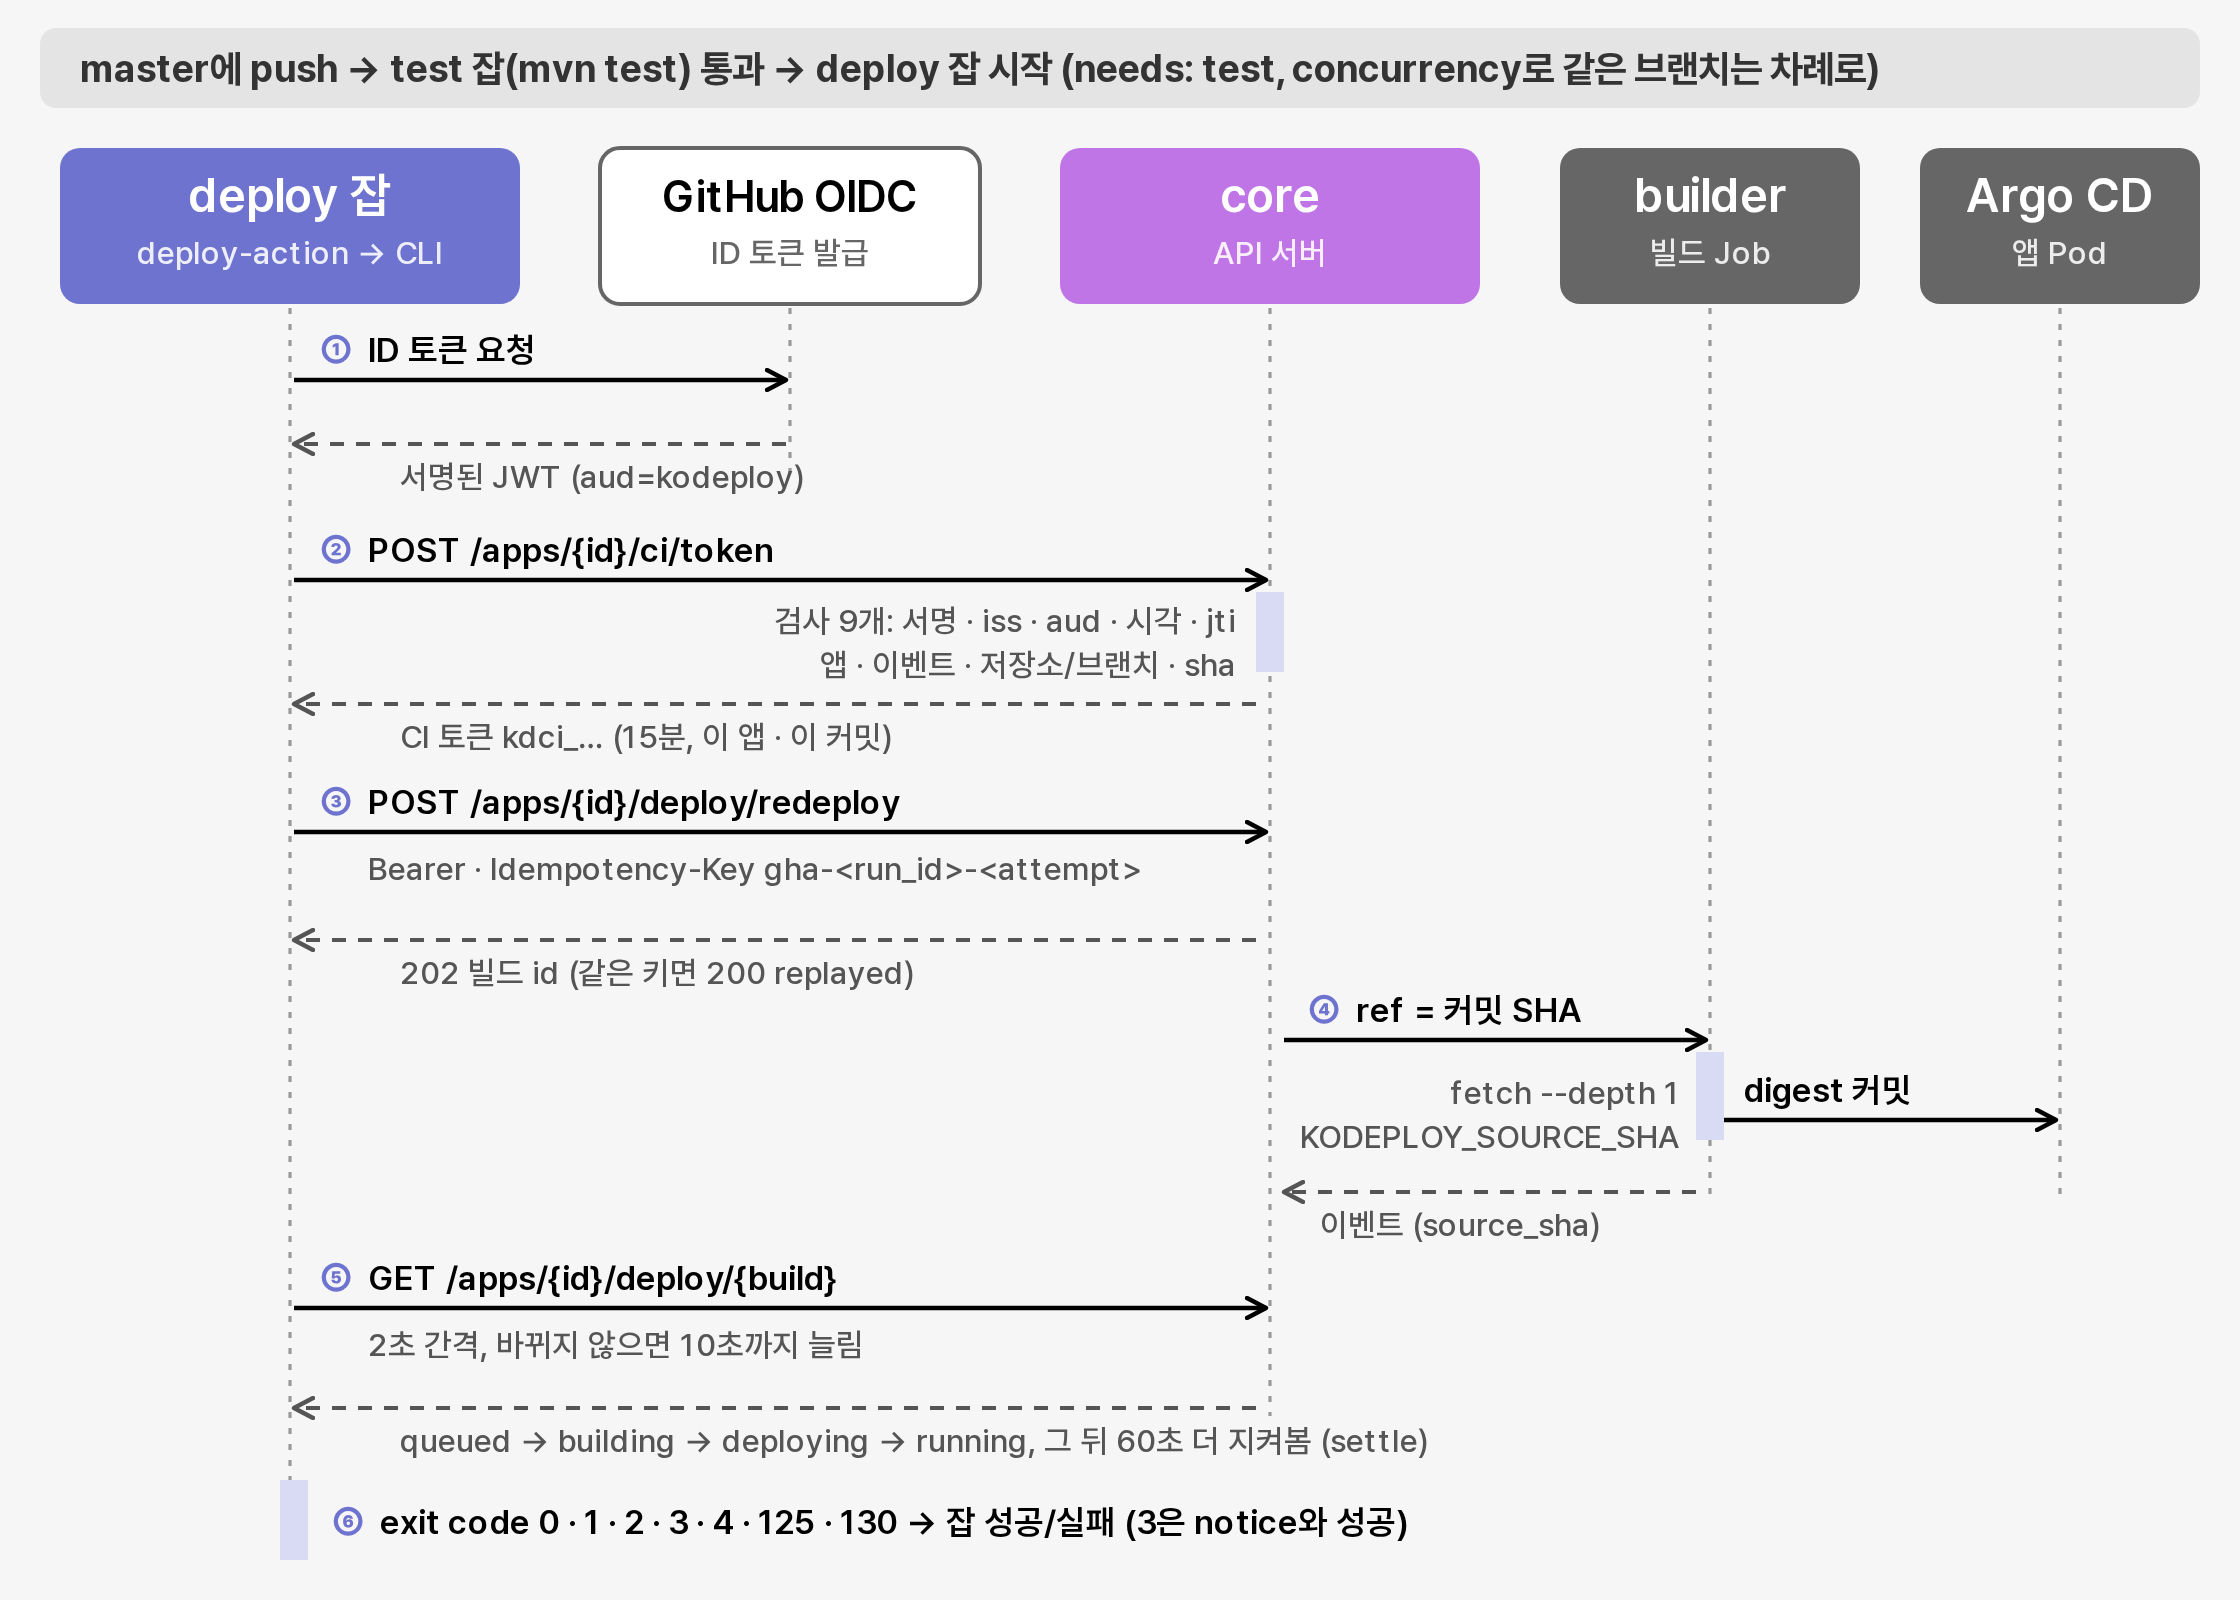
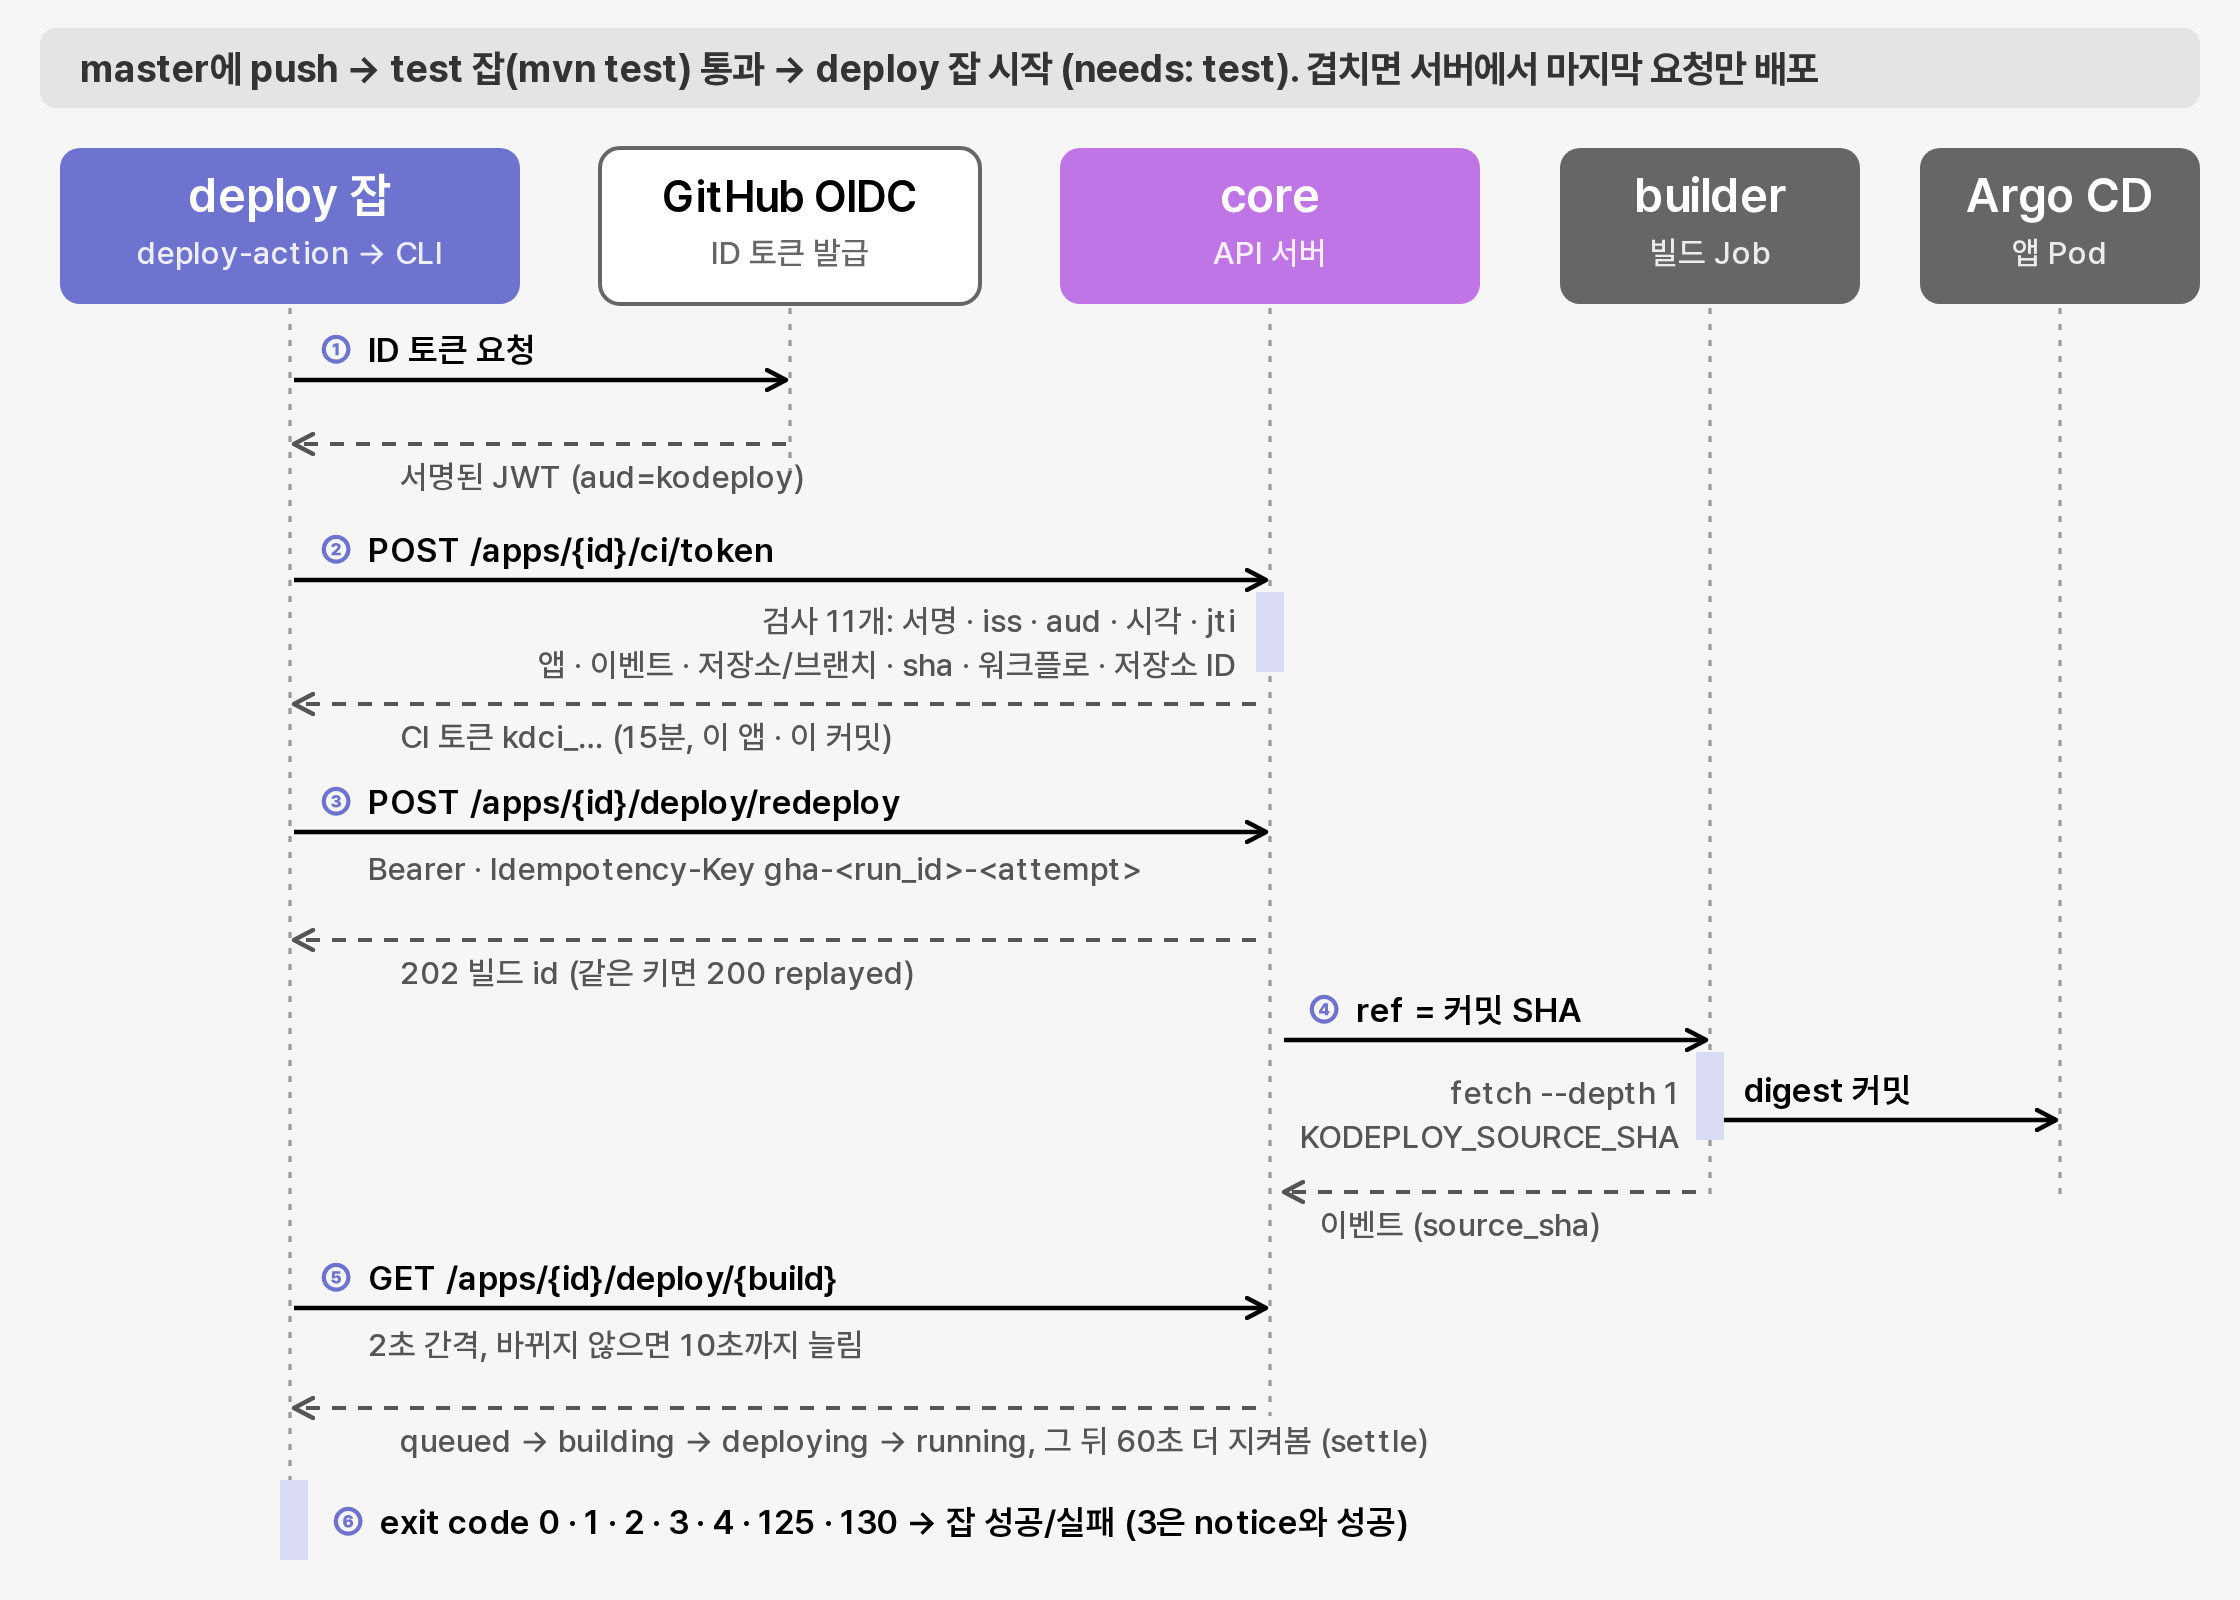
Reflect the workflow and repository id checks in the CI post
11/23 밤 운영에 올린 교환 검사 10(워크플로 파일), 11(저장소 ID)을 CI 글의 검사 표와 본문으로 옮기고 한계를 고침. 통과와 거절 실행 링크를 넣음. 아키텍처 05, 07과 그림 01의 검사 수를 11개로, 그림 01 띠의 concurrency 문구를 지금 설정에 맞춤. 글은 15분 분량 유지.

Changed region(s): [[0.25, 0.375, 0.5625, 0.4375], [0.5625, 0.0312, 0.8438, 0.0625]]

diff --git a/public/architecture/07-cicd.html b/public/architecture/07-cicd.html
@@ -112,7 +112,7 @@ th{background:var(--bg2);font-weight:700;font-size:12.5px;white-space:nowrap;col
   <text class="al" x="224" y="310">①</text>
 
   <rect class="b hl" x="270" y="300" width="210" height="58" rx="9"/>
-  <text class="t m" x="375" y="325">교환 API</text><text class="s m" x="375" y="343">검사 9개 → CI 토큰 15분</text>
+  <text class="t m" x="375" y="325">교환 API</text><text class="s m" x="375" y="343">검사 11개 → CI 토큰 15분</text>
   <path class="a" d="M375 248V298"/>
   <text class="al" x="383" y="278">② ID 토큰 제출</text>
 
@@ -199,6 +199,8 @@ th{background:var(--bg2);font-weight:700;font-size:12.5px;white-space:nowrap;col
           <tr><td>7</td><td>이벤트가 push 또는 workflow_dispatch</td><td>403</td></tr>
           <tr><td>8</td><td>라이브 슬롯 중 저장소와 브랜치가 모두 같은 것이 있음</td><td>403</td></tr>
           <tr><td>9</td><td><span class="code">sha</span>가 40자 hex</td><td>401</td></tr>
+          <tr><td>10</td><td>앱에 워크플로 파일을 지정했으면 <span class="code">job_workflow_ref</span>가 토큰 저장소의 그 파일 (11/23 추가)</td><td>403 <span class="code">workflow_mismatch</span></td></tr>
+          <tr><td>11</td><td>저장소 ID를 알면 <span class="code">repository_id</span>가 같음. 허용을 켤 때 GitHub에서 받고, 못 받으면 첫 교환의 값을 적어 둠 (11/23 추가)</td><td>403 <span class="code">repo_id_mismatch</span></td></tr>
         </tbody>
       </table>
     </div>
@@ -227,6 +229,7 @@ th{background:var(--bg2);font-weight:700;font-size:12.5px;white-space:nowrap;col
         <tbody>
           <tr><td><b>재배포</b></td><td><span class="code">POST /apps/{app_id}/deploy/redeploy</span><br>헤더 <span class="code">Idempotency-Key</span>(선택), 쿠키 또는 <span class="code">Authorization: Bearer kdci_…</span><br>본문 <span class="code">{"commit_sha": "&lt;40자, 선택&gt;", "repo": "&lt;선택&gt;"}</span>. 그 밖의 칸은 422</td><td><span class="code">202 {"app_id", "requested_sha", "replayed": false, "builds": [{"build_id", "slot", "status", "ref"}]}</span>. 같은 키면 <span class="code">200</span>, <span class="code">replayed: true</span></td></tr>
           <tr><td><b>상태 조회</b></td><td><span class="code">GET /apps/{app_id}/deploy/{build_id}</span>, 쿠키 또는 Bearer</td><td>빌드 상태(<span class="code">queued</span>, <span class="code">building</span>, <span class="code">deploying</span>, <span class="code">running</span>, <span class="code">failed</span>, <span class="code">cancelled</span>), <span class="code">requested_sha</span>, <span class="code">source_sha</span>, CI 빌드면 Actions 실행</td></tr>
+          <tr><td><b>허용과 워크플로 파일</b></td><td><span class="code">PUT /apps/{app_id}/ci-deploy</span>, 쿠키(앱 주인)<br>본문 <span class="code">{"enabled": true, "workflow": ".github/workflows/deploy.yml"}</span>. <span class="code">workflow</span>를 빼면 그대로, 빈 값이면 해제</td><td><span class="code">200 {"ci_deploy_enabled", "ci_workflow"}</span>. 경로 형식이 틀리면 422</td></tr>
           <tr><td><b>CI 토큰 교환</b></td><td><span class="code">POST /apps/{app_id}/ci/token</span>, 인증 없음<br>본문 <span class="code">{"id_token": "&lt;GitHub ID 토큰&gt;"}</span></td><td><span class="code">201 {"token": "kdci_…", "expires_in": 900, "repository", "ref", "sha"}</span></td></tr>
         </tbody>
       </table>

diff --git a/public/architecture/05-permissions.html b/public/architecture/05-permissions.html
@@ -237,7 +237,7 @@ th{background:var(--bg2);font-weight:700;font-size:12.5px;white-space:nowrap;col
       <table>
         <thead><tr><th>항목</th><th>범위</th></tr></thead>
         <tbody>
-          <tr><td>발급</td><td>GitHub Actions ID 토큰을 <span class="code">POST /apps/{id}/ci/token</span>에서 검사 9개(서명 · iss · aud · 시각 · jti 1회용 · 앱 허용 · 이벤트 · 저장소와 브랜치 · sha)를 거쳐 교환. 앱의 "GitHub Actions 배포 허용"은 기본 꺼짐, 주인만 바꿈</td></tr>
+          <tr><td>발급</td><td>GitHub Actions ID 토큰을 <span class="code">POST /apps/{id}/ci/token</span>에서 검사 11개(서명 · iss · aud · 시각 · jti 1회용 · 앱 허용 · 이벤트 · 저장소와 브랜치 · sha · 지정한 워크플로 파일 · 저장소 ID)를 거쳐 교환. 앱의 "GitHub Actions 배포 허용"은 기본 꺼짐, 주인만 바꿈</td></tr>
           <tr><td>받는 곳</td><td>재배포(<span class="code">POST /apps/{id}/deploy/redeploy</span>)와 상태 조회(<span class="code">GET /apps/{id}/deploy/{build}</span>) 두 곳뿐. 나머지 라우트는 쿠키만 받고, Bearer가 있으면 쿠키는 보지 않는다</td></tr>
           <tr><td>앱 · 커밋</td><td>교환한 앱 하나. 다른 앱 경로는 403, 커밋 · 저장소가 토큰과 다르면 403. 토큰과 저장소 · 브랜치가 같은 슬롯만 그 커밋으로, 나머지 슬롯은 지금 떠 있는 커밋으로 빌드</td></tr>
           <tr><td>수명</td><td>15분. 허용을 끄면 살아 있는 토큰도 바로 만료. 서버에는 sha256만 남는다</td></tr>

diff --git a/figures/ci-deploy-sequence.html b/figures/ci-deploy-sequence.html
@@ -43,7 +43,7 @@
 
   <!-- 앞단: push → test -->
   <rect class="band" x="20" y="14" width="1080" height="40" rx="8"/>
-  <text class="bt" x="40" y="41">master에 push → test 잡(mvn test) 통과 → deploy 잡 시작 (needs: test, concurrency로 같은 브랜치는 차례로)</text>
+  <text class="bt" x="40" y="41">master에 push → test 잡(mvn test) 통과 → deploy 잡 시작 (needs: test). 겹치면 서버에서 마지막 요청만 배포</text>
 
   <!-- 참여자 -->
   <rect class="ind" x="30" y="74" width="230" height="78" rx="10"/>
@@ -84,8 +84,8 @@
   <text class="nb" x="160" y="281">②</text>
   <text class="l" x="184" y="281">POST /apps/{id}/ci/token</text>
   <rect class="act" x="628" y="296" width="14" height="40"/>
-  <text class="ld e" x="618" y="316">검사 9개: 서명 · iss · aud · 시각 · jti</text>
-  <text class="ld e" x="618" y="338">앱 · 이벤트 · 저장소/브랜치 · sha</text>
+  <text class="ld e" x="618" y="316">검사 11개: 서명 · iss · aud · 시각 · jti</text>
+  <text class="ld e" x="618" y="338">앱 · 이벤트 · 저장소/브랜치 · sha · 워크플로 · 저장소 ID</text>
   <path class="ad" d="M628 352H147"/>
   <text class="ld" x="200" y="374">CI 토큰 kdci_… (15분, 이 앱 · 이 커밋)</text>
 
